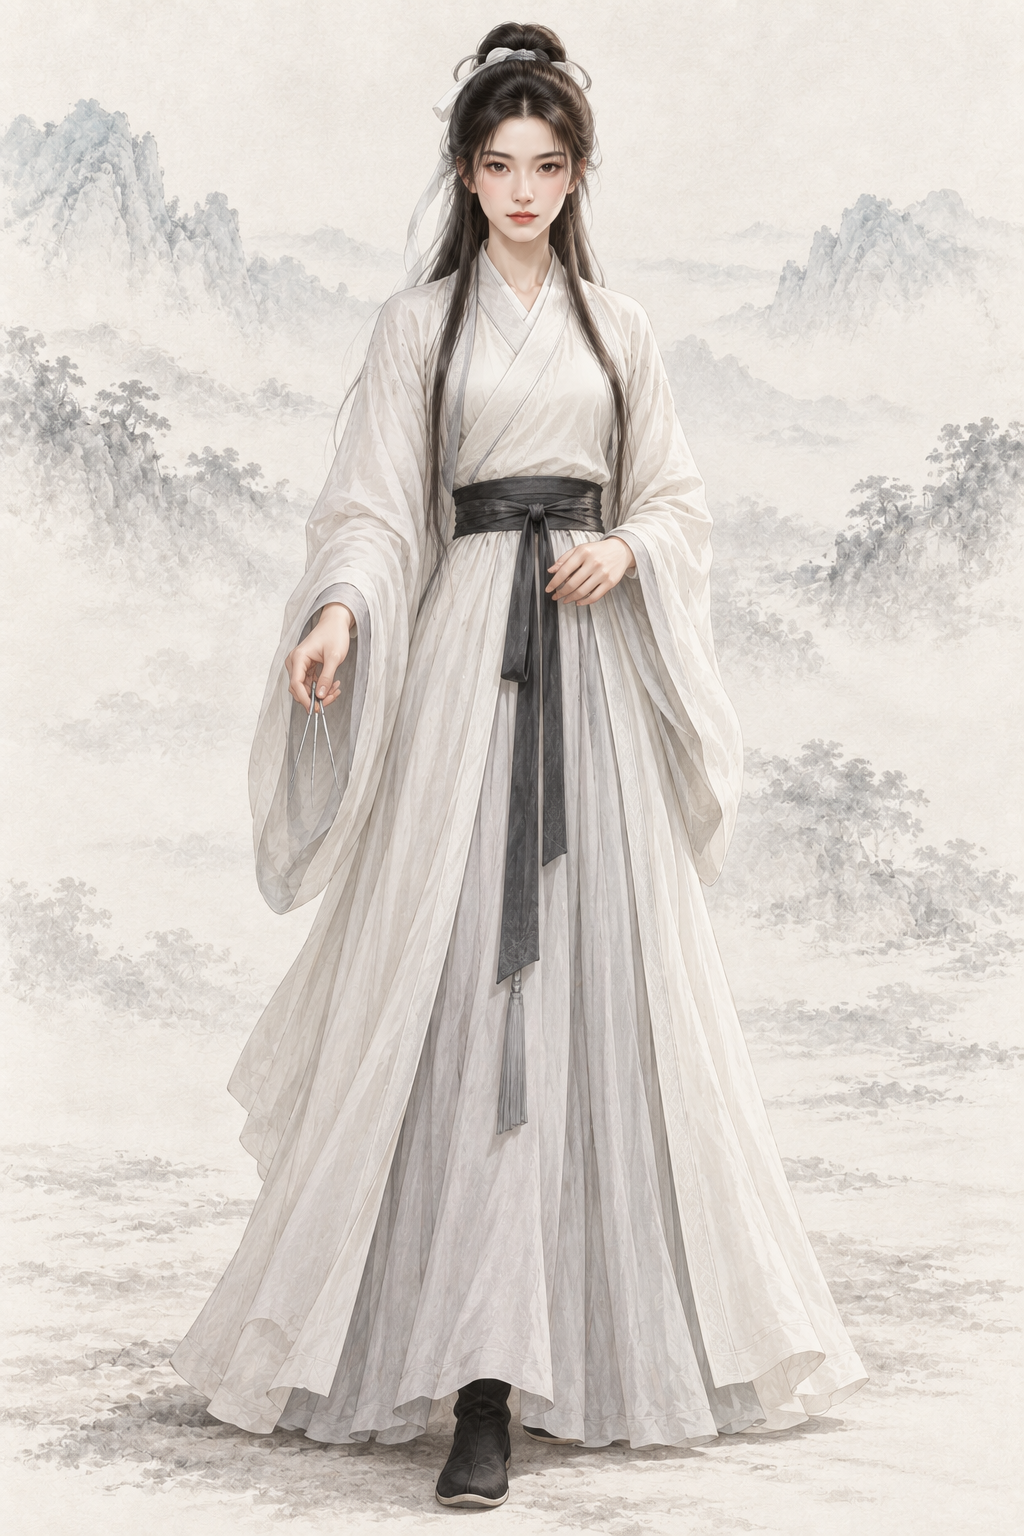
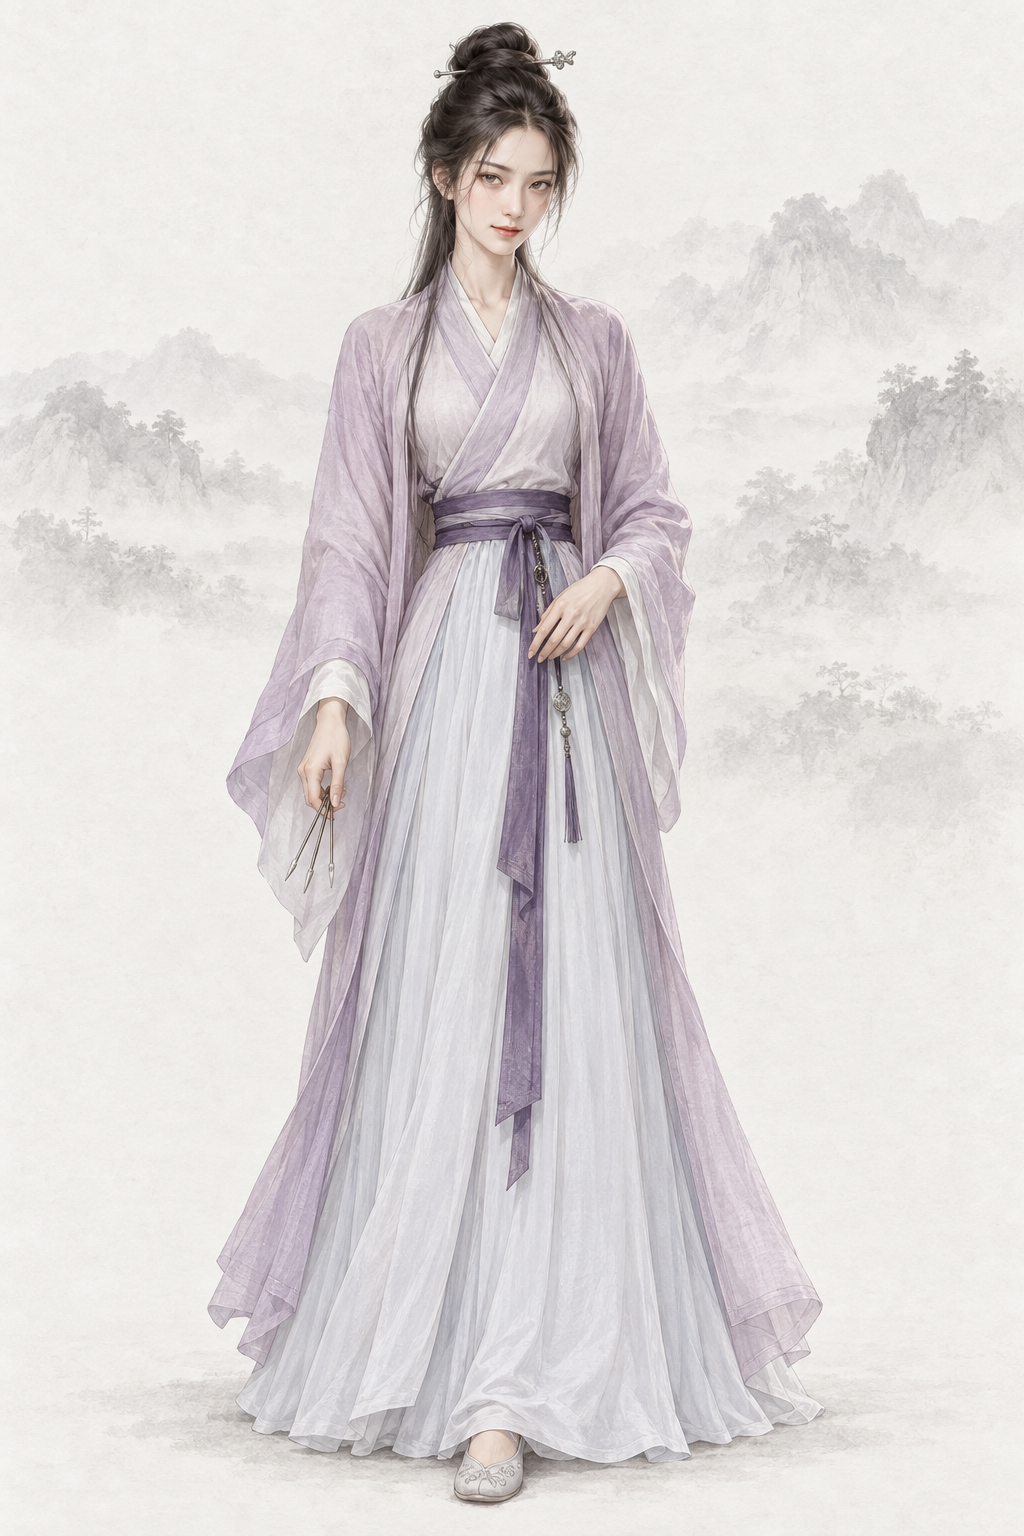
assets(character): por_npc_yinsusu__ch04_prime_ziwei_base 殷素素（codex）
AR-31：重要人物加经典造型文字描写（原创面孔，不写演员名、不传剧照）

diff --git a/assets/default/prompts/characters/ch04-yitian/npc_yinsusu.md b/assets/default/prompts/characters/ch04-yitian/npc_yinsusu.md
@@ -18,11 +18,32 @@ realism_revision: user_identity_pose_20261001
 redo_reason: "现图是偶像式网红脸，缺少殷素素的聪明狡黠与辨识度，且与本书其他女主同质；按文字原创重做"
 reference_upload:
 - assets/default/baseline/character/female/ref_npc_wangyuyan__ch01_base01.png
+codex_prompt_rev: 2026-10-02
 ---
 
 # 殷素素 · 人物写实修正
 
 ## Gemini 提示词
+
+> 2026-10-02 AR-31 改写（1 号出图员，codex exec · image_gen 出图）：重要人物借鉴经典影视造型，只写成文字——不写演员名、不上传剧照、原创面孔；主角和美人画得好看，去 AI 味，禁止幼态。出图时上传两张同性别基线立绘作画风参考（放在最后）。审核组原稿保留在下一节作历史。
+
+```text
+生成一张 2:3 竖幅全身人物立绘：单人、单一视角、完整全身——头顶、双手、双脚和手中器物的两端都在画面内，四周留出自然空白；人物站姿自然，身体基本朝向正面，头部端正（不歪头、不仰不俯），镜头平视。
+【画风】写实手绘古风人物插画，与本项目写实武侠角色立绘同一画风：人物是完整、坚实、比例真实的写实绘画；皮肤有真实质感——细小毛孔、细纹、晒痕、轻微色斑和自然的左右不对称，不磨皮、不油亮；头发有一根根的发丝和自然碎发；布料看得出经纬纹理、厚薄和自然垂坠的褶皱，带穿用过的轻微旧化，但完整不破烂；整体设色低饱和、沉稳；柔和的自然光从左上方照来，明暗过渡自然，不打舞台光、轮廓光或美颜柔光。这是手绘写实绘画，不是照片，不是三维渲染，也不是动漫或游戏 CG。
+【背景】不透明的暖浅灰色纸底，只在远处有极淡的水墨远山和薄雾，大面积留白；人物与背景明暗分明、轮廓边缘干净完整（后续要自动抠图），水墨和纸纹只在背景里，不侵入人物和衣服；脚下只有很淡的一点接触阴影。
+【人物】殷素素，《倚天屠龙记》天鹰教紫微堂主、白眉鹰王殷天正之女、张翠山之妻、张无忌之母；王盘山之前独自行走江湖的阶段。聪明机变、行事狠辣，又敢爱敢恨。
+【年龄与体态】约二十岁的成年女子，身材修长利落。成年女性的身体比例（约 7 头身），衣着完整端庄、不透明、不暴露、不性感化。
+【经典造型】借鉴经典武侠影视里这个角色深入人心的造型，只取发型、装束、配色、标志道具、气质和脸型类型，用原创面孔画出来，不像任何真实演员：灵动狡黠的天鹰教紫微堂主——乌发挽髻、一身淡紫衣裙，眼波流转、笑意狡猾，美艳中带一点邪气。
+【面容】鹅蛋脸、下巴尖巧，眉毛弯长，眼尾上挑的杏眼、眼神灵动而狡黠，鼻梁挺秀，唇形饱满、嘴角含着一丝狡猾的笑；肌肤白皙（原创扩展）。要和赵敏、周芷若、小昭明显不同：她是江湖帮派里长大的千金，机敏里带点邪气。明艳动人的美人。
+【发式】乌发挽成高髻，插一支银簪。
+【服饰】淡紫色交领右衽窄袖衫（呼应“紫微堂”，衣色为原创扩展），月白长裙，深紫腰带，平底鞋。
+【道具】右手指间轻轻拈着三枚细细的金属蚊须针（针尖朝下，完整清楚，不射出）；左手自然停在腰侧。
+【姿态与神情】自信地站着，一只脚略前；神情机敏，带一点邪气的笑。
+【不要】画面里不要任何文字、题款、印章、签名、水印、边框、分格或多视图；不要第二个人；不要幼态（童颜、娃娃脸、婴儿肥、儿童或少年身材、大头小身）；不要塑料感皮肤、磨皮美颜、网红脸（尖下巴大眼高鼻的模板脸）、过度对称、浓妆、偶像式打光、蜡像感；不要照片质感、三维渲染或动漫大眼；不要歪头、斜镜头；不要多指、缺指（设定的伤残除外）、手与器物粘连或悬空；汉式交领必须右衽（穿着者的左襟压在右襟上），不要左衽（设定为少数民族服制的除外），不要水平镜像；不要现代物品、发光特效、法阵或能量光。不要网红大眼尖下巴、磨皮；不要与赵敏、周芷若撞脸；不要暗器飞射特效；不要暴露衣着。
+【画风基线】随提示词上传的参考图里，最后两张是本项目的立绘画风基线：只参考它们的画风、用色、光线、质感和暖浅灰纸底加淡水墨的背景处理，整体画风必须与它们一致——精细写实的数字手绘插画，不是油画，不要厚涂笔触和画布纹理。参考图只取画风、光线、质感和背景处理，不取长相：不要照搬基线图里人物的长相、年龄、发型、服饰和姿势。
+```
+
+## 审核组 Gemini 提示词（2026-10-02 AR-30 重审稿；AR-31 改写前，历史，不再用于出图）
 
 > 2026-10-02 重要人物立绘重审（A 组，`tools/agents/reports/REVIEW-portraits-A-ch00-04.md`）：**整体重出**。现图是偶像式网红脸，缺少殷素素的聪明狡黠与辨识度，且与本书其他女主同质；按文字原创重做。
 > 本条不上传任何参考图（`reference_upload: []`）；frontmatter 的 `references` 与本节以下内容是旧出图管线的历史记录，不再用于出图。
